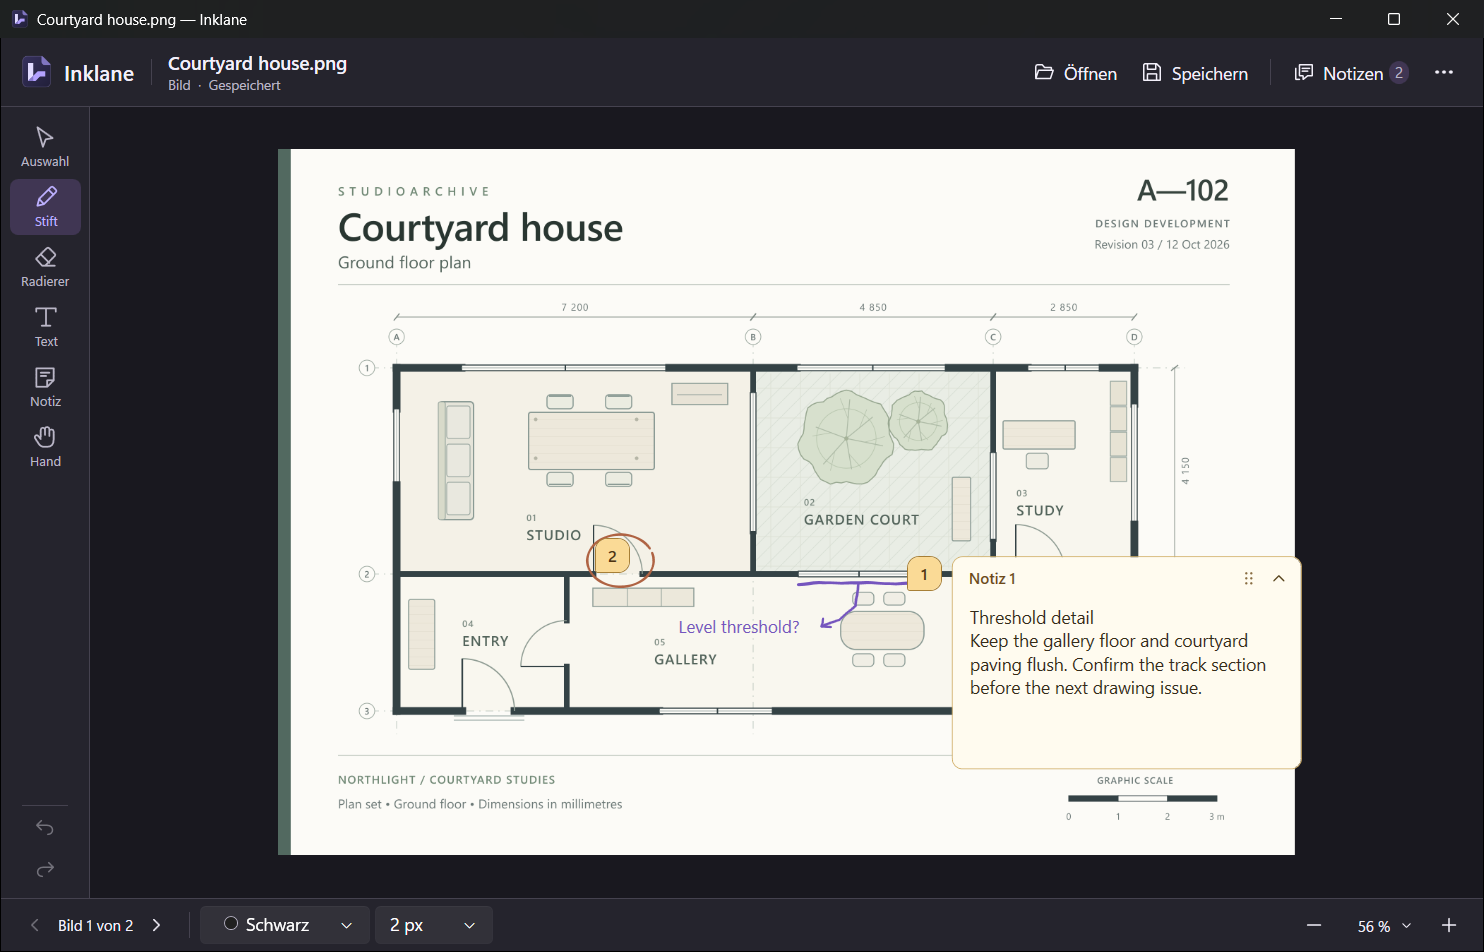
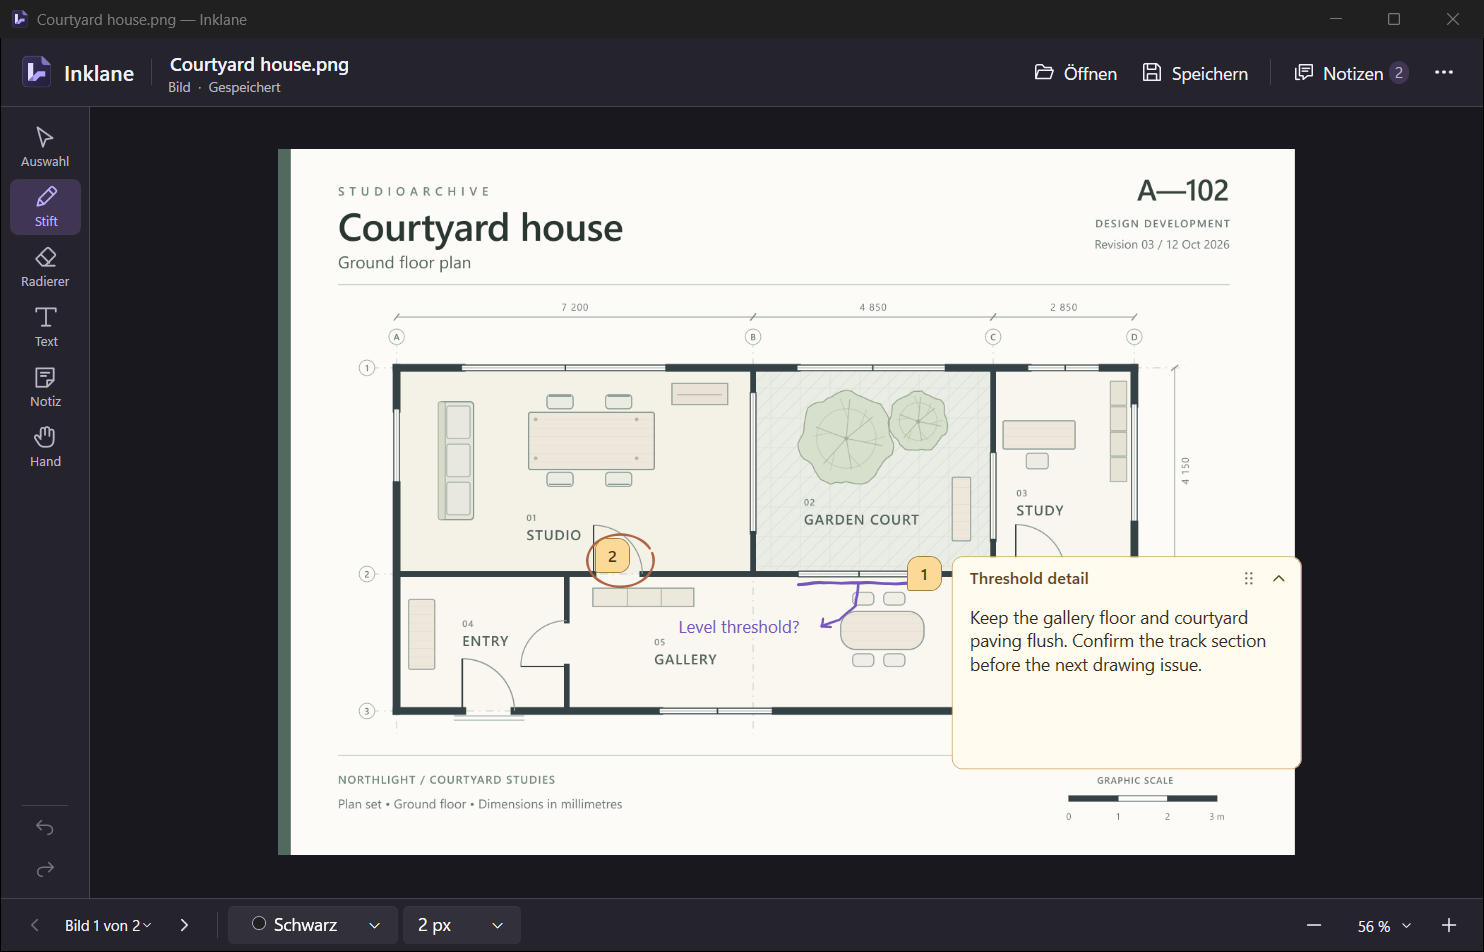
docs: document editing workflows and candidate compatibility

diff --git a/README.md b/README.md
@@ -8,27 +8,37 @@ Inklane is a local Windows 11 workspace for marking up images and writing in pri
 
 ## Install
 
-Download **[Inklane Setup for Windows x64](https://github.com/dwolken/inklane/releases/download/v1.0.0-rc.1/Inklane-Setup-1.0.0-rc.1-x64.exe)** from the [release candidate](https://github.com/dwolken/inklane/releases/tag/v1.0.0-rc.1). Run Setup and choose **Install**. Open **Inklane** from Start. The installer includes the .NET desktop runtime and installs for the current Windows user. Uninstall through **Settings → Apps → Installed apps**.
+Choose the **Inklane-Setup** x64 executable on the [Windows releases page](https://github.com/dwolken/inklane/releases). Run Setup and choose **Install**. Open **Inklane** from Start. The installer includes the .NET desktop runtime and installs for the current Windows user. Uninstall through **Settings → Apps → Installed apps**.
 
 The candidate is unsigned. Windows may display the publisher as unknown. A portable ZIP and SHA-256 checksums are also available on the release page. For portable use, extract the complete folder and launch `Inklane.exe`.
 
 ## Two ways to work
 
-**Images.** Choose **Open an image** on Home. PNG and JPEG files open at a scale that shows the whole image. The arrows in the footer browse its folder. Save writes the editable ink, text and notes to a neighboring `.inklane.json` file. Keep the image and its sidecar together. **More actions → Export annotated PNG** creates a separate image for sharing.
+**Images.** Choose **Open an image** on Home. PNG and JPEG files open at a scale that shows the whole image. Use ← and → to browse other images in the folder. Click the image counter to jump to a filename. The list follows Explorer-style numeric order and updates when files are added or removed. Save writes the editable ink, text and notes to a neighboring `.inklane.json` file. Keep the image and its sidecar together. **More actions → Export annotated PNG** creates a separate image for sharing.
 
 ![An architectural plan with editable ink and numbered image notes in the German dark workspace](docs/screenshots/image.png)
 
-**Notebooks.** Choose **New notebook**, then select A4 or A5, orientation, and blank, ruled or squared paper. The live preview shows the result. Patterned paper supports 5 mm, 10 mm and custom spacing with adjustable margins. New pages inherit the current paper. The initial writing view fills the available width up to 140%. Scroll down the sheet to continue writing. The zoom menu also offers full width, whole page and actual size.
+**Notebooks.** Choose **New notebook**, then select A4 or A5, orientation, and blank, ruled or squared paper. The live preview shows the result. Patterned paper supports 5 mm, 10 mm and custom spacing with adjustable margins. Click the notebook title to rename it. The title stays separate from the PDF filename and location. New pages inherit the current paper. Click the page counter to jump, or right-click it to duplicate, reorder or remove pages. These commands are also available under **More actions → Pages**. The initial writing view fills the available width up to 140%. Scroll down the sheet to continue writing. The zoom menu also offers full width, whole page and actual size.
 
-**Anchored notes.** Choose **Note** and click a point on the document. Type in the card and collapse it to its number. Use **Notes** in the header to search the document or return to an anchor. Reading a note leaves the saved state clean. An explicit save retains the card presentation alongside its text and location.
+**Anchored notes.** Choose **Note** and click a point on the document. Type in the card and collapse it to its number. Click the card heading to name it, or choose **Rename note** from its context menu. Unnamed notes keep their number. Use **Notes** in the header to search note titles and contents or return to an anchor. Reading a note leaves the saved state clean. An explicit save retains the card presentation alongside its text and location.
 
 **Editing.** Pen draws with a mouse or supported Windows stylus. Select lets you lasso ink or move text and note handles. Text inserts or edits keyboard text. Eraser removes strokes. Pan moves the viewport. The footer shows color and size controls for the active writing tool. Home lists up to six recently opened or saved documents on this computer.
+
+**Clipboard.** Right-click an object or use **More actions → Edit**. In Select, Ctrl+click to build a selection, or use Ctrl+A for the whole page. Copy and paste selected ink, text, pictures and notes between pages, images or Inklane windows. Click inside a text field to copy or paste just the selected words.
+
+Paste a screenshot onto the current page, then move it in Select or resize it by its corner. From Home, Ctrl+V starts a notebook with the clipboard contents. For a flattened copy, choose **Copy annotated image** or **Copy page as image** in the Edit menu. **Copy original image** copies the source pixels without markup. Image saves continue to use a sidecar.
 
 | Shortcut | Action |
 | --- | --- |
 | Ctrl+O / Ctrl+N | Open a file / create a notebook |
 | Ctrl+S / Ctrl+Shift+S | Save / Save as |
 | Ctrl+Z / Ctrl+Y | Undo / Redo |
+| Ctrl+C / Ctrl+X / Ctrl+V | Copy / cut / paste |
+| Ctrl+D / Ctrl+A / Delete | Duplicate / select all / delete selected objects |
+| F2 / Esc | Edit selected text or a note title / finish editing or clear selection |
+| Arrow keys / Shift+arrow | Nudge selected objects / larger step |
+| Left / Right | Browse folder images when the canvas has no selection |
+| Shift+F10 | Open the canvas context menu |
 | Alt+Left / Alt+Right | Previous / next image or page |
 | Ctrl+0 / Ctrl+1 | Fit page / fit width |
 | Ctrl+wheel | Zoom about the pointer |
@@ -39,7 +49,7 @@ Tool shortcuts apply outside text entry. Appearance follows Windows by default. 
 
 ## Files and compatibility
 
-A notebook PDF contains standard Ink, FreeText and Text annotations, vector paper, and an attached JSON model for editable reopening in Inklane. Other PDF readers can display the page and may expose annotation contents. Their note presentation varies. Editable PDF reopening covers notebooks saved by Inklane, including the original alpha format released in November 2026. Inklane rejects detected external changes to protected PDF content. Keep third-party edits in a separate copy.
+A notebook PDF contains standard Ink, FreeText and Text annotations, vector paper, placed pictures, and an attached JSON model for editable reopening in Inklane. Other PDF readers can display the page and may expose annotation contents. Their note presentation varies. Editable PDF reopening covers notebooks saved by Inklane, including the original alpha format released in November 2026. A title or placed image uses the extended editable format and needs RC.2 or newer to reopen in Inklane. Earlier notebooks and sidecars still open. Inklane rejects detected external changes to protected PDF content. Keep third-party edits in a separate copy.
 
 Normal saves use atomic replacement. Inklane checks image identity and detects conflicting file changes. Local recovery snapshots follow editing pauses. Documents, recovery files and recent paths stay on this computer. Settings and recovery live in `%LOCALAPPDATA%\Inklane`. Print uses the selected Windows driver with a 150 DPI raster at the document's physical dimensions.
 

diff --git a/docs/architecture.md b/docs/architecture.md
@@ -30,7 +30,9 @@ PDFsharp-WPF **6.2.4** is explicitly pinned. Its downloaded NuGet manifest and t
 
 Generated PDFs use physical page dimensions and vector paper patterns. Handwriting is represented by standard `/Ink` annotations. Typed text uses `/FreeText`, and contextual notes use `/Text` with full Unicode `/Contents`. Each annotation has a printable appearance stream; strokes and text are not drawn a second time in the page content. Stroke appearances use the same WPF pressure-dependent outline as the editor. Text appearances embed the Segoe UI glyphs used by PDFsharp. Note appearances show a small marker; full note content remains accessible as annotation data.
 
-The complete versioned model is both an `inklane.json` attachment and a private catalog stream. Inklane reopens this model, retaining pressure, object IDs, note expansion state and editable text. Other readers may show or edit standard annotations, but their behavior and presentation vary. Third-party edits are not merged into the embedded model. Keep third-party-edited PDFs separate.
+Named notes store their title in the standard annotation subject (`/Subj`) and their body in `/Contents`. A notebook's explicit display title is also written to PDF document information. Inklane checks it on reopen to avoid losing an external rename. A pasted picture is drawn as an ordinary PDF image beneath the ink and text. Its original PNG and placement remain editable in Inklane. [ISO 32000-1, section 12.5.6.2](https://opensource.adobe.com/dc-acrobat-sdk-docs/standards/pdfstandards/PDF32000_2008.pdf) · [PDFsharp image drawing](https://docs.pdfsharp.net/PDFsharp/Topics/Bitmap-Images/Drawing.html)
+
+The complete versioned model is both an `inklane.json` attachment and a private catalog stream. Inklane reopens this model, retaining pressure, object IDs, note expansion state and editable text. It reads schemas 1 and 2. Writing the first explicit title or placed image uses schema 2 so older Inklane releases refuse the file before editing it. Existing schema 1 documents can still be saved as schema 1 when they use its original features. Other readers may show or edit standard annotations, but their behavior and presentation vary. Third-party edits are not merged into the embedded model. Keep third-party-edited PDFs separate.
 
 Before editable reopening, Inklane checks page count/dimensions and a versioned content fingerprint. The fingerprint follows PDFsharp's object graph through complete page dictionaries, annotations (including properties Inklane does not edit), appearance streams, fonts, images, resource dictionaries, inherited page properties and other catalog content such as attachments and document viewing settings. It sorts dictionary keys, resolves references without object numbers, frames scalar/stream values, and detects cycles. Stream bytes and filter parameters are included without implementing another PDF decoder. Numeric values are normalized to a millionth of a PDF point to tolerate insignificant serializer rounding. Informational document metadata and regenerated XMP timestamps are excluded; edits to such metadata are not preserved when Inklane rebuilds a notebook. Content changes cause a safe refusal to reopen for editing. This is a consistency safeguard, not a cryptographic signature or a guarantee about arbitrary PDF applications. Early development PDFs without fingerprint version 2 are rejected.
 
@@ -41,6 +43,8 @@ Editable reopening requires an Inklane notebook with its versioned data. The rea
 PNG/JPEG sources are read-only inputs. JSON sidecars hold image identity (SHA-256) and all annotations; the store refuses writing annotation data over the source image. PDF export checks the source hash. Writes use a unique temporary file in the destination directory, flush it to disk, then atomically replace or move it. A failed write leaves the existing destination intact. Read-only and locked destinations produce errors.
 
 Models are validated before saving and after loading. Limits include 1,000 pages, two million ink points, 32 MiB JSON and 128 MiB PDFs. PDF graph verification is bounded to two million visits, depth 128 and 512 MiB of referenced data (shared resources can be visited more than once). Numeric values must be finite; object identifiers must be unique. Unsupported schema versions are rejected. These are bounded desktop-document safeguards, not a promise to handle every arbitrary or malicious PDF.
+
+An inserted PNG may contain up to 24 million pixels and 16 MiB of encoded data, within the existing JSON size limit. The reader checks PNG dimensions and a 64-million-pixel aggregate limit before decoding embedded images.
 
 ## Validation
 

diff --git a/docs/release-notes.md b/docs/release-notes.md
@@ -1,13 +1,17 @@
-# Inklane 1.0.0-rc.1
+# Inklane 1.0.0-rc.2
 
-Windows 11 x64 release candidate for product acceptance.
+Windows 11 x64 release candidate. Download **Inklane-Setup-1.0.0-rc.2-x64.exe** and launch Inklane from Start after installation. Setup installs for the current user and includes the desktop runtime. The installer and portable build are unsigned. SHA-256 checksums accompany both downloads.
 
-Download **Inklane-Setup-1.0.0-rc.1-x64.exe**, run it and choose Install. Launch Inklane from Start. Setup installs for the current user and includes the desktop runtime. The portable ZIP is an alternative for running from an extracted folder. Both downloads have SHA-256 checksums. The binaries are unsigned.
+## Editing
 
-Start with **Open an image** or **New notebook**. Ink, text and numbered note cards share one document workspace. A searchable notes panel jumps across notebook pages and returns to the selected detail. Paper setup previews A4/A5 geometry and line spacing. Editing starts at a writing scale, with fit-width, fit-page and manual zoom available.
+- Copy, cut, duplicate and paste ink, text, notes and pictures across Inklane documents and windows. Ctrl+click builds a selection. Right-click the canvas or press Shift+F10 for editing commands. Normal Windows text shortcuts work inside editors.
+- Paste a screenshot directly onto a page or image. Move it or drag its corner to resize it. Ctrl+V on Home starts a notebook from the clipboard. **Copy annotated image** and **Copy page as image** produce flattened pictures for other applications. **Copy original image** copies the source pixels without overlays.
+- Click a note’s heading to name it. F2 and the note index context menu also open its title. Search both titles and text across pages.
+- Click a notebook’s title to change its display name. **Save as** controls its filename and location. Click the page counter to jump. Its context menu lets you duplicate, reorder and remove pages.
+- Use ← and → to browse folder images when the canvas has no selection. Click the image counter to jump to a filename. The folder list updates when screenshots arrive or disappear.
 
-Existing alpha notebooks and image sidecars remain supported. Notebook PDFs retain standard annotations and editable Inklane data. For a flattened image, export PNG. For physical output, select the appropriate paper and orientation in Windows Print.
+## Compatibility
 
-The candidate underwent live Windows editing and visual inspection, numerical PDF and virtual-print checks, package startup checks, and real per-user installation, upgrade and removal. See the repository validation record for measurements and test boundaries.
+Historical Inklane notebooks and image sidecars still open. Files containing a title or an inserted picture need RC.2 or newer for editable reopening in Inklane. A saved notebook contains standard PDF page content and annotations, including note subjects and bodies. Imported third-party PDFs are outside the supported editing format.
 
-Windows signing, physical pen and printer qualification, Narrator, mixed-monitor transitions, and a separate clean Windows 11 machine remain open. PDFsharp 6.2.4 is pinned to its MIT-licensed branch, whose upstream maintenance has ended. Product acceptance precedes a stable 1.0.0 release.
+See the [validation record](https://github.com/dwolken/inklane/blob/v1.0.0-rc.2/docs/validation.md) for the Windows and PDF checks. Physical pen/printer qualification, Narrator, mixed-monitor transitions, a separate clean Windows 11 device, signing and the long-term PDF dependency decision remain open.

diff --git a/docs/validation.md b/docs/validation.md
@@ -2,7 +2,17 @@
 
 Inklane 1.0.0-rc.1 was exercised on Windows 11 at 125% display scaling. This record separates desktop observations, repeatable regression checks and device work that remains open.
 
-## Desktop journeys
+## Editing candidate · RC.2
+
+The local Release build passed 17 persistence checks, 27 WPF/clipboard checks and 19 lifecycle checks, with zero compiler warnings or errors.
+
+- Independent WPF editor processes on a noninteractive Windows window station exchanged selected objects through the operating-system clipboard after the source process exited. The checks compare stroke pressure and shape, positions, text and note titles, new object identities, native text selection, undo and redo. The user's interactive clipboard is separate.
+- Clipboard checks exercise standard text, PNG, bitmap and device-independent bitmap data, placement in a PDF notebook, copying a flattened image, editing a photo sidecar and retaining the original image hash. A Poppler render independently reproduced the inserted test image’s color samples at its saved coordinates.
+- The note index, marker and card expose the same edited title. Search by title and body, cross-page context commands, and reopen are exercised on real WPF controls. The German dark image screenshot is a native 1484 × 952 capture from the running RC.2 editor at 125% Windows scaling.
+- The lifecycle suite duplicates and moves pages, checks the target page across undo/redo and reopens the saved order. It renames a notebook while retaining its original filename. Real filesystem changes exercise numeric folder ordering, added screenshots, a removed current file, navigation boundaries and cancel/save decisions before switching.
+- Historical alpha and RC.1 files opened in the new reader. The released RC.1 reader refused the extended titled/image model, including an extended unsaved-work snapshot. A second window recovered the titles, picture data, positions and dirty state. Damaged recoveries stayed intact while the next valid recovery remained available. Device-specific pen and printer checks listed below still apply.
+
+## RC.1 desktop journeys
 
 | Journey | Observed result |
 | --- | --- |

diff --git a/CHANGELOG.md b/CHANGELOG.md
@@ -1,5 +1,14 @@
 # Changelog
 
+## 1.0.0-rc.2 · 2026-11-02
+
+- Copy, cut, paste and duplicate editable groups across pages, documents and Inklane windows. Text editing retains its own Windows shortcuts.
+- Paste pictures and screenshots into either workspace, move or resize them and keep the editable result in the PDF or sidecar. A separate command copies the flattened page or annotated image.
+- Name a note from its card, marker or index. Search titles and body text across pages. Note titles also travel with copied objects and standard PDF annotations.
+- Rename a notebook independently of its filename, jump to pages, duplicate pages and move them earlier or later with undo.
+- Browse a changing image folder using arrow keys or the filename list. Numeric filenames follow Explorer ordering.
+- The public English and German site shares the desktop brand, original screenshots and verified Windows release downloads.
+
 ## 1.0.0-rc.1 · 2026-11-01
 
 - Home gives image annotation and notebook creation equally visible entry points, with local recent documents and a return-to-document action.
@@ -11,7 +20,7 @@
 - Typing avoids full-document serialization on every edit. Substantial PDF saves run on a separate STA thread with visible progress.
 - A per-user Windows x64 installer bundles the runtime and adds Start and Installed apps entries. The update path protects user-created files. Portable distribution remains available.
 
-This is the candidate for product acceptance. Physical device qualification, signing and the PDF maintenance decision remain open.
+This candidate introduced the document workspace. Physical device qualification, signing and the PDF maintenance decision remain open.
 
 ## 0.1.0-alpha.1 · 2026-11-01
 
